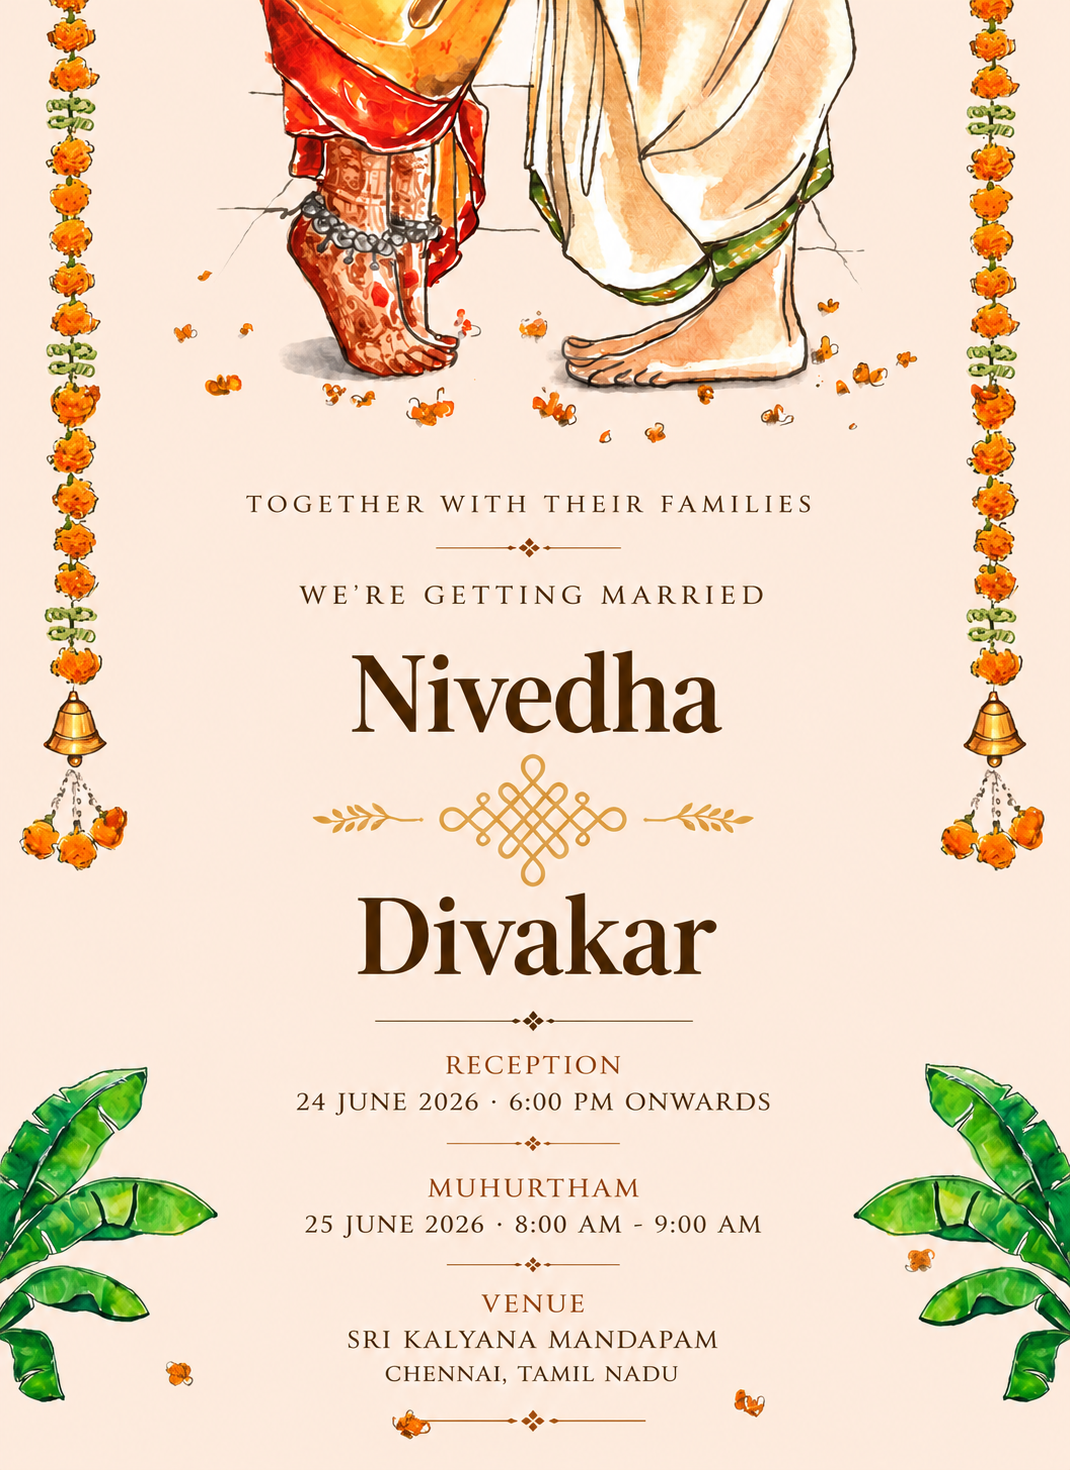
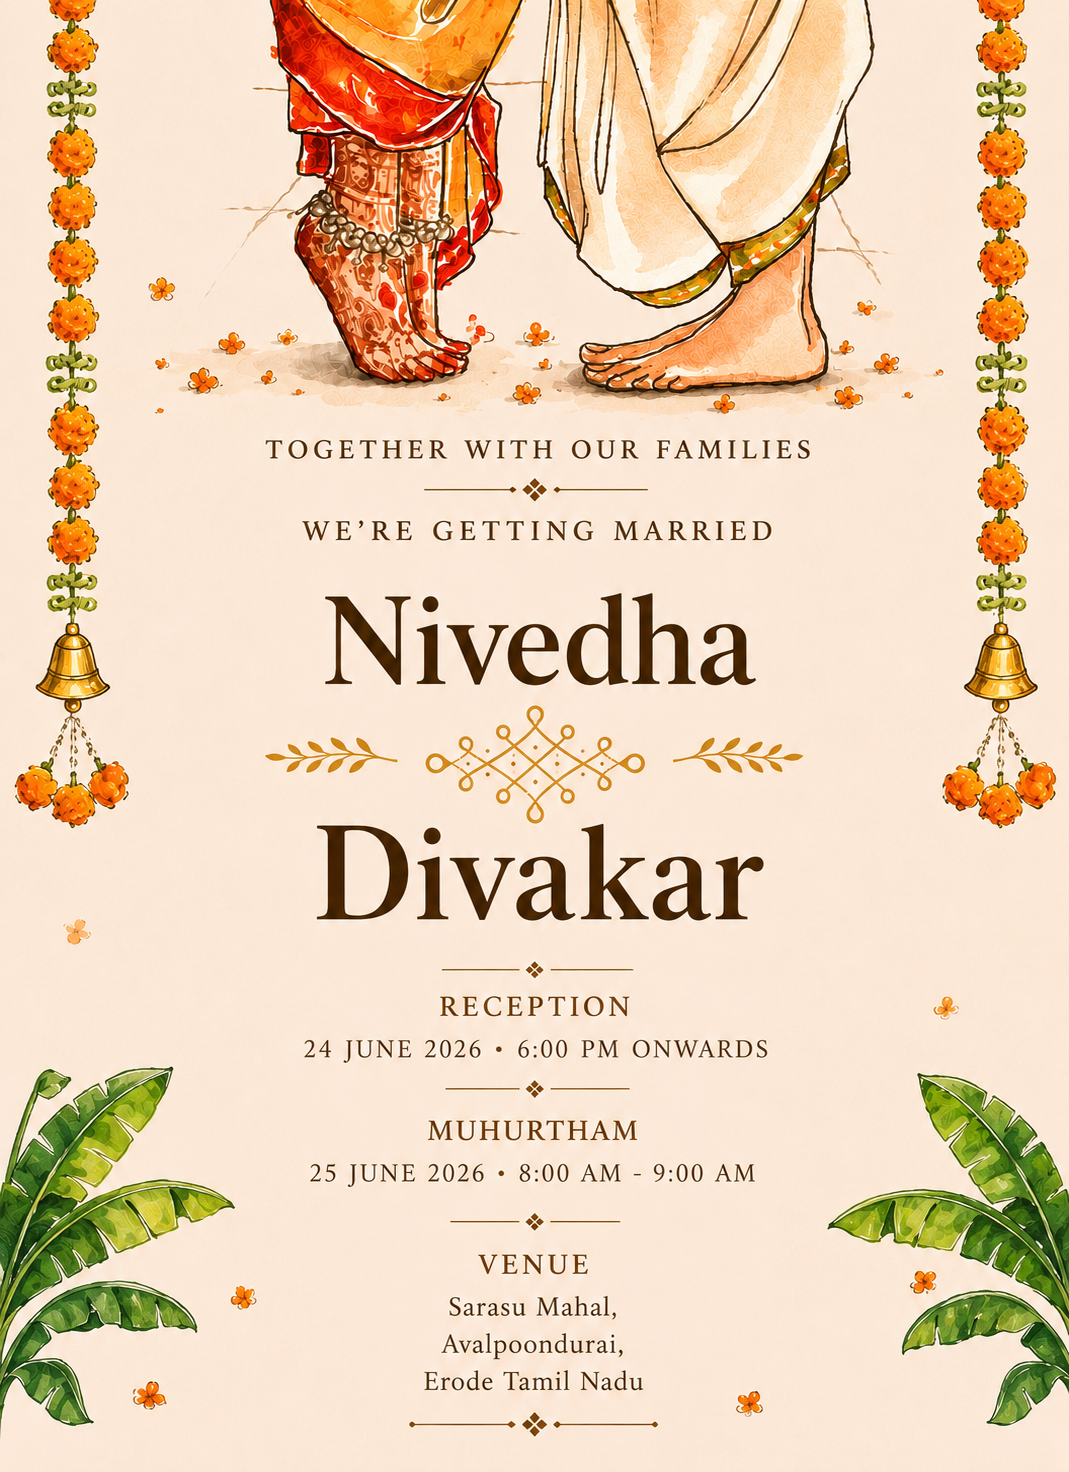
Brighten hero and update share thumbnail.
Lighten hero overlays and remove side edge shadows; refresh link preview image.

diff --git a/src/components/HeroSection.tsx b/src/components/HeroSection.tsx
@@ -35,25 +35,12 @@ export function HeroSection() {
       </motion.div>
 
       <div
-        className="absolute inset-0 z-[1] bg-gradient-to-b from-stone-950/75 via-stone-900/40 to-stone-950/88"
+        className="absolute inset-0 z-[1] bg-gradient-to-b from-stone-950/60 via-stone-900/30 to-stone-950/72"
         aria-hidden
       />
       <div
-        className="absolute inset-0 z-[1] bg-[radial-gradient(ellipse_at_50%_25%,transparent_0%,rgba(15,10,8,0.35)_70%)]"
+        className="absolute inset-0 z-[1] bg-[radial-gradient(ellipse_at_50%_25%,transparent_0%,rgba(15,10,8,0.24)_70%)]"
         aria-hidden
-      />
-
-      <motion.div
-        className="pointer-events-none absolute inset-y-0 left-0 z-[2] w-[min(18vw,7rem)] bg-gradient-to-r from-amber-950/55 via-amber-900/20 to-transparent"
-        initial={{ x: '-100%', opacity: 0 }}
-        animate={{ x: 0, opacity: 1 }}
-        transition={{ duration: 0.85, ease: [0.22, 1, 0.36, 1], delay: 0.15 }}
-      />
-      <motion.div
-        className="pointer-events-none absolute inset-y-0 right-0 z-[2] w-[min(18vw,7rem)] bg-gradient-to-l from-amber-950/55 via-amber-900/20 to-transparent"
-        initial={{ x: '100%', opacity: 0 }}
-        animate={{ x: 0, opacity: 1 }}
-        transition={{ duration: 0.85, ease: [0.22, 1, 0.36, 1], delay: 0.15 }}
       />
 
       {/* Top center: names + details (details sit a bit higher, close under names) */}
